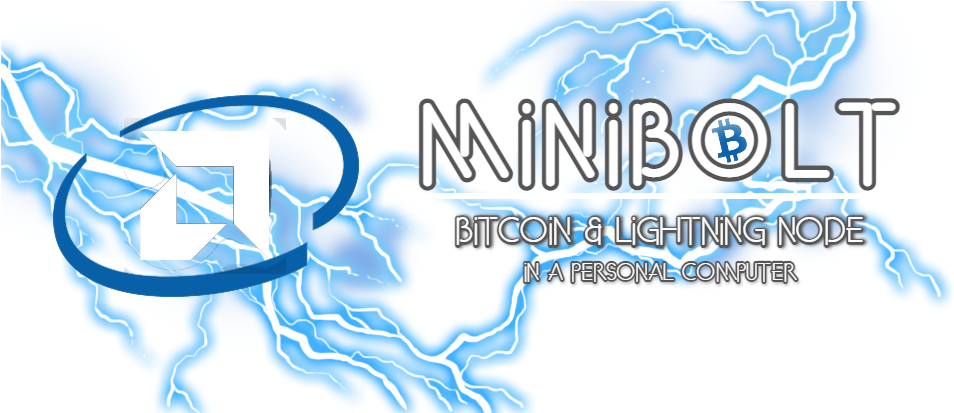
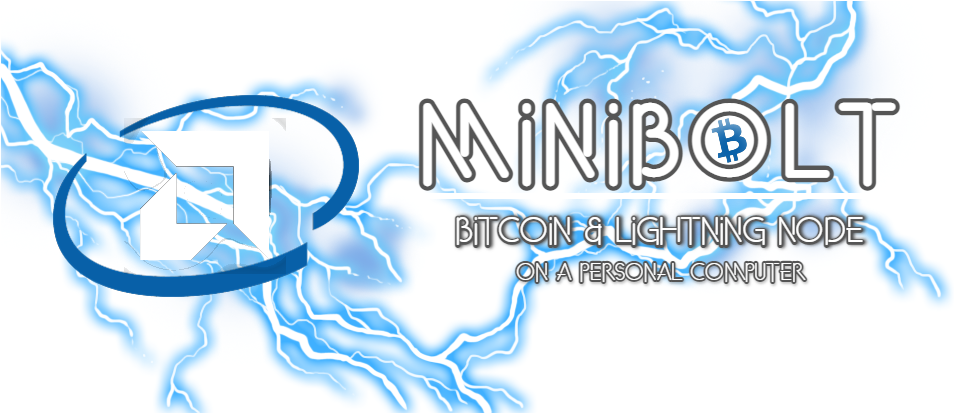
Update

Changed region(s): [[0.5168, 0.6102, 0.8512, 0.6973]]

diff --git a/_includes/include_metatags.md b/_includes/include_metatags.md
@@ -1,3 +1,3 @@
 <!-- Metatags for OpenGraph & Twitter link perview -->
 <meta property="og:type" content="website" />
-<meta name="twitter:description" content="Build your own “DIY” Bitcoin & Lightning full node in a personal computer. No need to trust anyone else.">
+<meta name="twitter:description" content="Build your own “DIY” Bitcoin & Lightning full node on a personal computer. No need to trust anyone else.">
